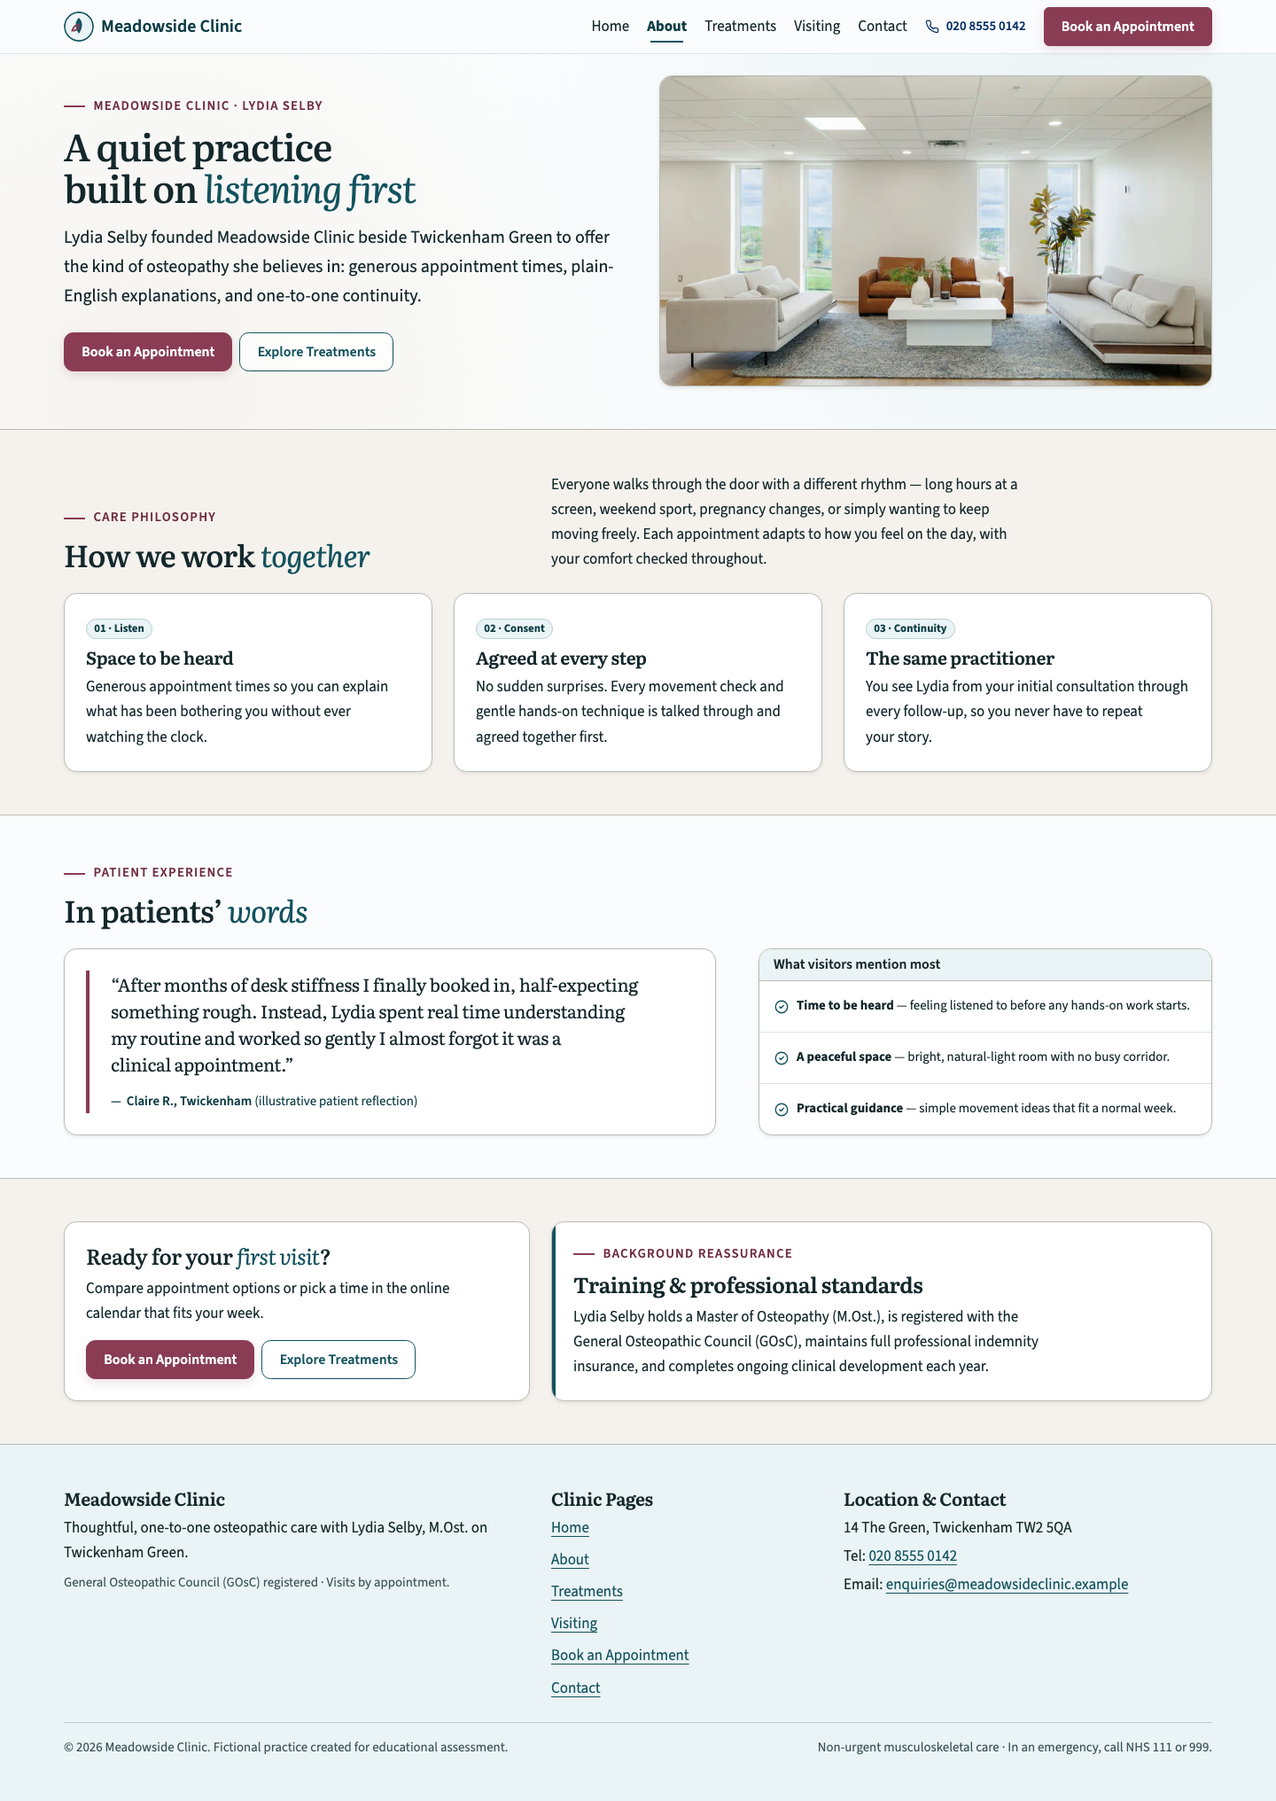
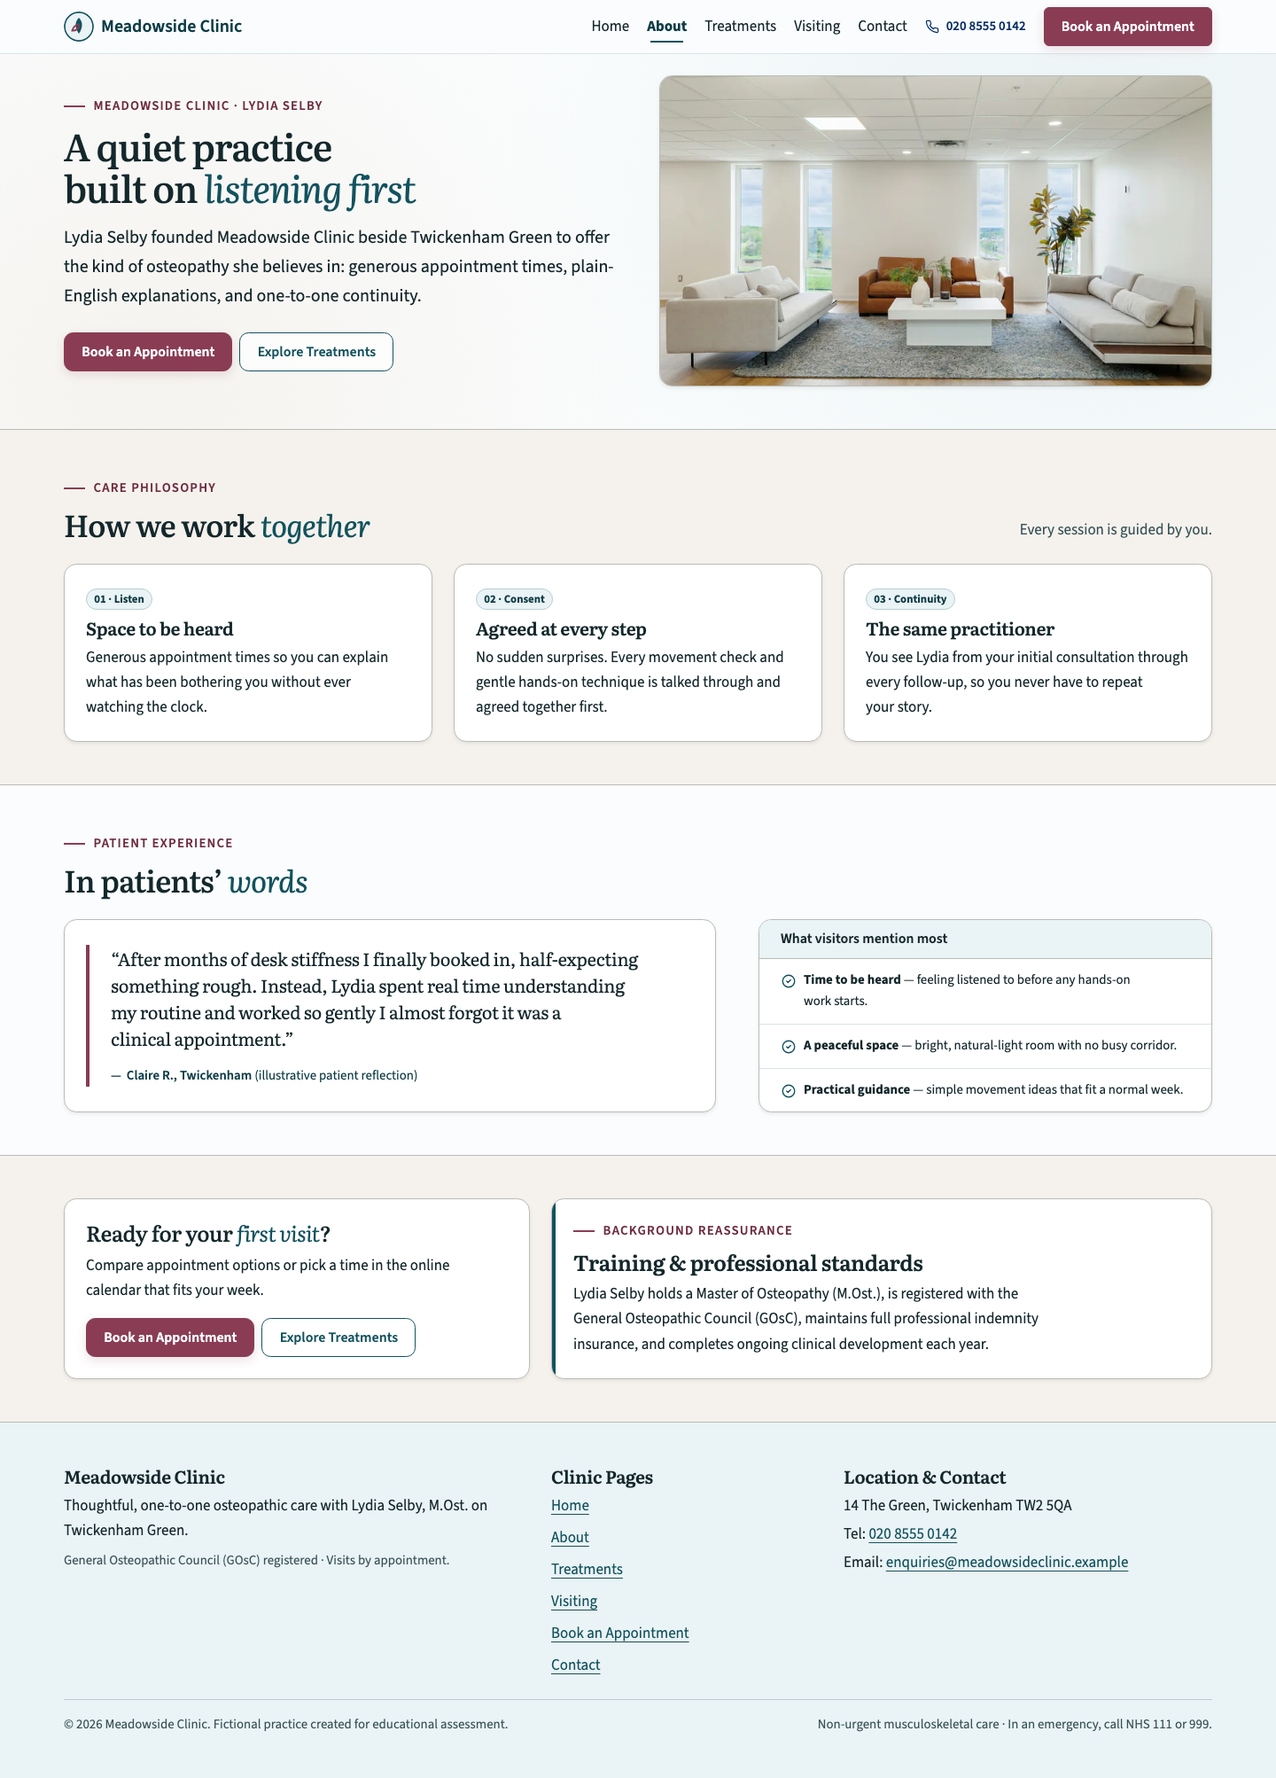
Unify card internal spacing and tighten About section subtitle

diff --git a/visiting.html b/visiting.html
@@ -156,66 +156,72 @@
 
         <div class="tab-content" id="travelTabsContent">
           <div class="tab-pane fade show active" id="rail-pane" role="tabpanel" aria-labelledby="rail-tab" tabindex="0">
-            <div class="card shadow-sm p-4">
-              <div class="row gy-3 align-items-center">
-                <div class="col-lg-7">
-                  <h3 class="h5 fw-semibold mb-2">Walkable from two local stations</h3>
-                  <p class="mb-0">
-                    The clinic at 14 The Green is roughly an 8-minute level walk from Strawberry Hill Station and around
-                    12 minutes along Heath Road from Twickenham Station. Local buses stop right beside Twickenham
-                    Green, less than two minutes on foot from the clinic door.
-                  </p>
-                </div>
-                <div class="col-lg-5">
-                  <ul class="list-group list-group-flush small">
-                    <li class="list-group-item px-0 py-2"><strong>Strawberry Hill:</strong> ~8 min level walk</li>
-                    <li class="list-group-item px-0 py-2"><strong>Twickenham Station:</strong> ~12 min via Heath Rd</li>
-                    <li class="list-group-item px-0 py-2"><strong>Bus routes:</strong> 110, 290, and 490 at The Green</li>
-                  </ul>
+            <div class="card shadow-sm">
+              <div class="card-body">
+                <div class="row gy-3 align-items-center">
+                  <div class="col-lg-7">
+                    <h3 class="h5 fw-semibold mb-2">Walkable from two local stations</h3>
+                    <p class="mb-0">
+                      The clinic at 14 The Green is roughly an 8-minute level walk from Strawberry Hill Station and around
+                      12 minutes along Heath Road from Twickenham Station. Local buses stop right beside Twickenham
+                      Green, less than two minutes on foot from the clinic door.
+                    </p>
+                  </div>
+                  <div class="col-lg-5">
+                    <ul class="list-group list-group-flush small">
+                      <li class="list-group-item px-0 py-2"><strong>Strawberry Hill:</strong> ~8 min level walk</li>
+                      <li class="list-group-item px-0 py-2"><strong>Twickenham Station:</strong> ~12 min via Heath Rd</li>
+                      <li class="list-group-item px-0 py-2"><strong>Bus routes:</strong> 110, 290, and 490 at The Green</li>
+                    </ul>
+                  </div>
                 </div>
               </div>
             </div>
           </div>
 
           <div class="tab-pane fade" id="car-pane" role="tabpanel" aria-labelledby="car-tab" tabindex="0">
-            <div class="card shadow-sm p-4">
-              <div class="row gy-3 align-items-center">
-                <div class="col-lg-7">
-                  <h3 class="h5 fw-semibold mb-2">Drop-off &amp; local parking</h3>
-                  <p class="mb-0">
-                    Short-stay pay-and-display bays sit along the edges of Twickenham Green and nearby side roads,
-                    within a two-minute flat walk of the clinic door. If someone is dropping you off, Staines Road
-                    along the northern edge offers an easy, level spot to step out.
-                  </p>
-                </div>
-                <div class="col-lg-5">
-                  <ul class="list-group list-group-flush small">
-                    <li class="list-group-item px-0 py-2"><strong>Street bays:</strong> Along Twickenham Green edges</li>
-                    <li class="list-group-item px-0 py-2"><strong>Drop-off:</strong> Level kerb on Staines Road side</li>
-                    <li class="list-group-item px-0 py-2"><strong>Distance:</strong> Under 2 mins on flat pavement</li>
-                  </ul>
+            <div class="card shadow-sm">
+              <div class="card-body">
+                <div class="row gy-3 align-items-center">
+                  <div class="col-lg-7">
+                    <h3 class="h5 fw-semibold mb-2">Drop-off &amp; local parking</h3>
+                    <p class="mb-0">
+                      Short-stay pay-and-display bays sit along the edges of Twickenham Green and nearby side roads,
+                      within a two-minute flat walk of the clinic door. If someone is dropping you off, Staines Road
+                      along the northern edge offers an easy, level spot to step out.
+                    </p>
+                  </div>
+                  <div class="col-lg-5">
+                    <ul class="list-group list-group-flush small">
+                      <li class="list-group-item px-0 py-2"><strong>Street bays:</strong> Along Twickenham Green edges</li>
+                      <li class="list-group-item px-0 py-2"><strong>Drop-off:</strong> Level kerb on Staines Road side</li>
+                      <li class="list-group-item px-0 py-2"><strong>Distance:</strong> Under 2 mins on flat pavement</li>
+                    </ul>
+                  </div>
                 </div>
               </div>
             </div>
           </div>
 
           <div class="tab-pane fade" id="access-pane" role="tabpanel" aria-labelledby="access-tab" tabindex="0">
-            <div class="card shadow-sm p-4">
-              <div class="row gy-3 align-items-center">
-                <div class="col-lg-7">
-                  <h3 class="h5 fw-semibold mb-2">Ground-floor, step-free clinic</h3>
-                  <p class="mb-0">
-                    Both the level pavement entrance and our treatment room are on the ground floor with wide doorways
-                    and no steps — comfortable for buggies, crutches, or anyone preferring step-free entry. Feel free to
-                    mention any seating or arrival preferences when getting in touch.
-                  </p>
-                </div>
-                <div class="col-lg-5">
-                  <ul class="list-group list-group-flush small">
-                    <li class="list-group-item px-0 py-2"><strong>Entrance:</strong> Flush threshold from pavement</li>
-                    <li class="list-group-item px-0 py-2"><strong>Interior:</strong> Ground-floor treatment &amp; WC</li>
-                    <li class="list-group-item px-0 py-2"><strong>Buggies &amp; mobility:</strong> Wide clear corridor</li>
-                  </ul>
+            <div class="card shadow-sm">
+              <div class="card-body">
+                <div class="row gy-3 align-items-center">
+                  <div class="col-lg-7">
+                    <h3 class="h5 fw-semibold mb-2">Ground-floor, step-free clinic</h3>
+                    <p class="mb-0">
+                      Both the level pavement entrance and our treatment room are on the ground floor with wide doorways
+                      and no steps — comfortable for buggies, crutches, or anyone preferring step-free entry. Feel free to
+                      mention any seating or arrival preferences when getting in touch.
+                    </p>
+                  </div>
+                  <div class="col-lg-5">
+                    <ul class="list-group list-group-flush small">
+                      <li class="list-group-item px-0 py-2"><strong>Entrance:</strong> Flush threshold from pavement</li>
+                      <li class="list-group-item px-0 py-2"><strong>Interior:</strong> Ground-floor treatment &amp; WC</li>
+                      <li class="list-group-item px-0 py-2"><strong>Buggies &amp; mobility:</strong> Wide clear corridor</li>
+                    </ul>
+                  </div>
                 </div>
               </div>
             </div>
@@ -245,7 +251,7 @@
               — appointments are spaced generously apart so the waiting area stays peaceful.
             </p>
             <div class="card shadow-sm mb-4">
-              <div class="card-body p-3 p-sm-4">
+              <div class="card-body">
                 <span class="small text-uppercase fw-semibold clinic-eyebrow mb-3">Patient experience</span>
                 <figure class="border-accent border-start border-4 ps-3 ps-sm-4 mb-0">
                   <blockquote class="blockquote fs-5 mb-3">

diff --git a/about.html b/about.html
@@ -123,23 +123,21 @@
     <!-- 2. Philosophy + Pillar Cards on Warm Linen -->
     <section class="py-4 py-lg-5 bg-body-tertiary border-top">
       <div class="container">
-        <div class="row align-items-end gy-3 mb-4">
-          <div class="col-lg-5">
+        <div class="row align-items-end justify-content-between gy-2 mb-4">
+          <div class="col-lg-7">
             <span class="small text-uppercase fw-semibold clinic-eyebrow mb-2">Care philosophy</span>
             <h2 class="h2 mb-0">How we work <em>together</em></h2>
           </div>
-          <div class="col-lg-7">
-            <p class="mb-0">
-              Everyone walks through the door with a different rhythm — long hours at a screen, weekend sport,
-              pregnancy changes, or simply wanting to keep moving freely. Each appointment adapts to how you feel on the
-              day, with your comfort checked throughout.
+          <div class="col-lg-5 text-lg-end">
+            <p class="text-body-secondary mb-0">
+              Every session is guided by you.
             </p>
           </div>
         </div>
         <div class="row row-cols-1 row-cols-md-3 g-3 g-lg-4">
           <div class="col">
             <div class="card shadow-sm h-100">
-              <div class="card-body p-4">
+              <div class="card-body">
                 <span
                   class="badge rounded-pill bg-primary-subtle text-primary-emphasis border border-primary-subtle mb-2">01
                   · Listen</span>
@@ -153,7 +151,7 @@
           </div>
           <div class="col">
             <div class="card shadow-sm h-100">
-              <div class="card-body p-4">
+              <div class="card-body">
                 <span
                   class="badge rounded-pill bg-primary-subtle text-primary-emphasis border border-primary-subtle mb-2">02
                   · Consent</span>
@@ -167,7 +165,7 @@
           </div>
           <div class="col">
             <div class="card shadow-sm h-100">
-              <div class="card-body p-4">
+              <div class="card-body">
                 <span
                   class="badge rounded-pill bg-primary-subtle text-primary-emphasis border border-primary-subtle mb-2">03
                   · Continuity</span>
@@ -191,7 +189,7 @@
         <div class="row align-items-stretch gy-4 gx-lg-5">
           <div class="col-lg-7">
             <div class="card shadow-sm h-100">
-              <div class="card-body p-3 p-sm-4 d-flex flex-column justify-content-center">
+              <div class="card-body d-flex flex-column justify-content-center">
                 <figure class="border-accent border-start border-4 ps-3 ps-sm-4 mb-0">
                   <blockquote class="blockquote fs-5 mb-3">
                     <p class="mb-0">
@@ -211,7 +209,7 @@
             <div class="card shadow-sm h-100">
               <h3 class="card-header h6 bg-primary-subtle fw-semibold mb-0">What visitors mention most</h3>
               <ul class="list-group list-group-flush small">
-                <li class="list-group-item d-flex align-items-start gap-2 py-3">
+                <li class="list-group-item d-flex align-items-start gap-2">
                   <svg width="18" height="18" viewBox="0 0 24 24" fill="none" stroke="currentColor" stroke-width="1.8"
                     stroke-linecap="round" stroke-linejoin="round" aria-hidden="true"
                     class="text-primary flex-shrink-0 mt-1">
@@ -220,7 +218,7 @@
                   </svg>
                   <span><strong>Time to be heard</strong> — feeling listened to before any hands-on work starts.</span>
                 </li>
-                <li class="list-group-item d-flex align-items-start gap-2 py-3">
+                <li class="list-group-item d-flex align-items-start gap-2">
                   <svg width="18" height="18" viewBox="0 0 24 24" fill="none" stroke="currentColor" stroke-width="1.8"
                     stroke-linecap="round" stroke-linejoin="round" aria-hidden="true"
                     class="text-primary flex-shrink-0 mt-1">
@@ -229,7 +227,7 @@
                   </svg>
                   <span><strong>A peaceful space</strong> — bright, natural-light room with no busy corridor.</span>
                 </li>
-                <li class="list-group-item d-flex align-items-start gap-2 py-3">
+                <li class="list-group-item d-flex align-items-start gap-2">
                   <svg width="18" height="18" viewBox="0 0 24 24" fill="none" stroke="currentColor" stroke-width="1.8"
                     stroke-linecap="round" stroke-linejoin="round" aria-hidden="true"
                     class="text-primary flex-shrink-0 mt-1">
@@ -262,7 +260,7 @@
           </div>
           <div class="col-lg-5 order-lg-1">
             <div class="card shadow-sm h-100">
-              <div class="card-body p-4 d-flex flex-column">
+              <div class="card-body d-flex flex-column">
                 <h2 class="h4 mb-2">Ready for your <em>first visit</em>?</h2>
                 <p class="mb-3">
                   Compare appointment options or pick a time in the online calendar that fits your week.

diff --git a/treatments.html b/treatments.html
@@ -361,7 +361,7 @@
           <div class="col">
             <div class="card shadow-sm h-100">
               <div class="card-header bg-primary-subtle small fw-semibold text-primary-emphasis">01 · Conversation</div>
-              <div class="card-body p-4">
+              <div class="card-body">
                 <h3 class="h5 fw-semibold mb-2">An unhurried conversation</h3>
                 <p class="card-text mb-0">
                   We start sitting down and listening — your routine, what feels tight or sore, and what you would like
@@ -373,7 +373,7 @@
           <div class="col">
             <div class="card shadow-sm h-100">
               <div class="card-header bg-primary-subtle small fw-semibold text-primary-emphasis">02 · Treatment</div>
-              <div class="card-body p-4">
+              <div class="card-body">
                 <h3 class="h5 fw-semibold mb-2">Gentle, explained treatment</h3>
                 <p class="card-text mb-0">
                   Soft tissue release, joint mobilisation, and gentle stretching — always described beforehand and
@@ -385,7 +385,7 @@
           <div class="col">
             <div class="card shadow-sm h-100">
               <div class="card-header bg-primary-subtle small fw-semibold text-primary-emphasis">03 · Aftercare</div>
-              <div class="card-body p-4">
+              <div class="card-body">
                 <h3 class="h5 fw-semibold mb-2">Clear aftercare &amp; next steps</h3>
                 <p class="card-text mb-0">
                   You leave with straightforward self-care ideas, a realistic movement tip if helpful, and honest
@@ -404,7 +404,7 @@
         <div class="row align-items-stretch gy-4">
           <div class="col-lg-7">
             <div class="card shadow-sm h-100">
-              <div class="card-body p-3 p-sm-4 d-flex flex-column justify-content-center">
+              <div class="card-body d-flex flex-column justify-content-center">
                 <span class="small text-uppercase fw-semibold clinic-eyebrow mb-3">Patient experience</span>
                 <figure class="border-accent border-start border-4 ps-3 ps-sm-4 mb-0">
                   <blockquote class="blockquote fs-5 mb-3">
@@ -423,7 +423,7 @@
           </div>
           <div class="col-lg-5">
             <div class="card shadow-sm h-100">
-              <div class="card-body p-4 d-flex flex-column">
+              <div class="card-body d-flex flex-column">
                 <h2 class="h4 mb-2">Ready to <em>choose a time</em>?</h2>
                 <p class="mb-3">
                   Book online in a few clicks, or check local directions and step-free access at 14 The Green.

diff --git a/booking.html b/booking.html
@@ -148,7 +148,7 @@
             </aside>
 
             <div class="card shadow-sm mb-3">
-              <div class="card-body p-3 p-sm-4">
+              <div class="card-body">
                 <span class="small text-uppercase fw-semibold clinic-eyebrow mb-2">Patient experience</span>
                 <figure class="border-accent border-start border-4 ps-3 mb-0">
                   <blockquote class="blockquote fs-6 mb-3">
@@ -171,12 +171,14 @@
                 Quick visit checklist &darr;
               </button>
               <div class="collapse mt-2" id="visitChecklist">
-                <div class="card bg-primary-subtle p-3 small shadow-sm">
-                  <ul class="list-unstyled mb-0 d-flex flex-column gap-2">
-                    <li><strong>1. Arrive calmly:</strong> 5 minutes ahead is plenty; quiet ground-floor seating waits inside.</li>
-                    <li><strong>2. What to wear:</strong> Loose, comfortable clothing (joggers, leggings, or a soft T-shirt).</li>
-                    <li><strong>3. Company welcome:</strong> Feel free to bring a partner, friend, or family member along.</li>
-                  </ul>
+                <div class="card bg-primary-subtle small shadow-sm">
+                  <div class="card-body">
+                    <ul class="list-unstyled mb-0 d-flex flex-column gap-2">
+                      <li><strong>1. Arrive calmly:</strong> 5 minutes ahead is plenty; quiet ground-floor seating waits inside.</li>
+                      <li><strong>2. What to wear:</strong> Loose, comfortable clothing (joggers, leggings, or a soft T-shirt).</li>
+                      <li><strong>3. Company welcome:</strong> Feel free to bring a partner, friend, or family member along.</li>
+                    </ul>
+                  </div>
                 </div>
               </div>
             </div>

diff --git a/index.html b/index.html
@@ -288,7 +288,7 @@
         <div class="row align-items-stretch gy-4">
           <div class="col-lg-7">
             <div class="card shadow-sm h-100">
-              <div class="card-body p-3 p-sm-4 d-flex flex-column justify-content-center">
+              <div class="card-body d-flex flex-column justify-content-center">
                 <span class="small text-uppercase fw-semibold clinic-eyebrow mb-3">Patient experience</span>
                 <figure class="border-accent border-start border-4 ps-3 ps-sm-4 mb-0">
                   <blockquote class="blockquote fs-5 mb-3">
@@ -307,7 +307,7 @@
           </div>
           <div class="col-lg-5">
             <div class="card shadow-sm h-100">
-              <div class="card-body p-4 d-flex flex-column">
+              <div class="card-body d-flex flex-column">
                 <h2 class="h4 mb-2">Ready to book, or <em>just have a question</em>?</h2>
                 <p class="mb-3">
                   Choose an appointment online in a minute, or drop Lydia a message beforehand for an informal chat —

diff --git a/assets/css/style.css b/assets/css/style.css
@@ -362,6 +362,23 @@ header .navbar .btn-secondary.active {
   --bs-card-border-color: var(--clinic-surface-border);
   --bs-card-border-radius: var(--bs-border-radius-xl);
   --bs-card-inner-border-radius: calc(var(--bs-border-radius-xl) - 1px);
+  --bs-card-spacer-y: 1.5rem;
+  --bs-card-spacer-x: 1.5rem;
+  --bs-card-cap-padding-y: 0.75rem;
+  --bs-card-cap-padding-x: 1.5rem;
+}
+
+.card > .list-group {
+  --bs-list-group-item-padding-y: 0.75rem;
+  --bs-list-group-item-padding-x: var(--bs-card-spacer-x);
+}
+
+@media (max-width: 575.98px) {
+  .card {
+    --bs-card-spacer-y: 1.25rem;
+    --bs-card-spacer-x: 1.25rem;
+    --bs-card-cap-padding-x: 1.25rem;
+  }
 }
 
 .card-header {

diff --git a/contact.html b/contact.html
@@ -196,7 +196,7 @@
             </aside>
 
             <div class="card shadow-sm">
-              <div class="card-body p-3 p-sm-4">
+              <div class="card-body">
                 <span class="small text-uppercase fw-semibold clinic-eyebrow mb-2">Patient experience</span>
                 <figure class="border-accent border-start border-4 ps-3 mb-0">
                   <blockquote class="blockquote fs-6 mb-3">
